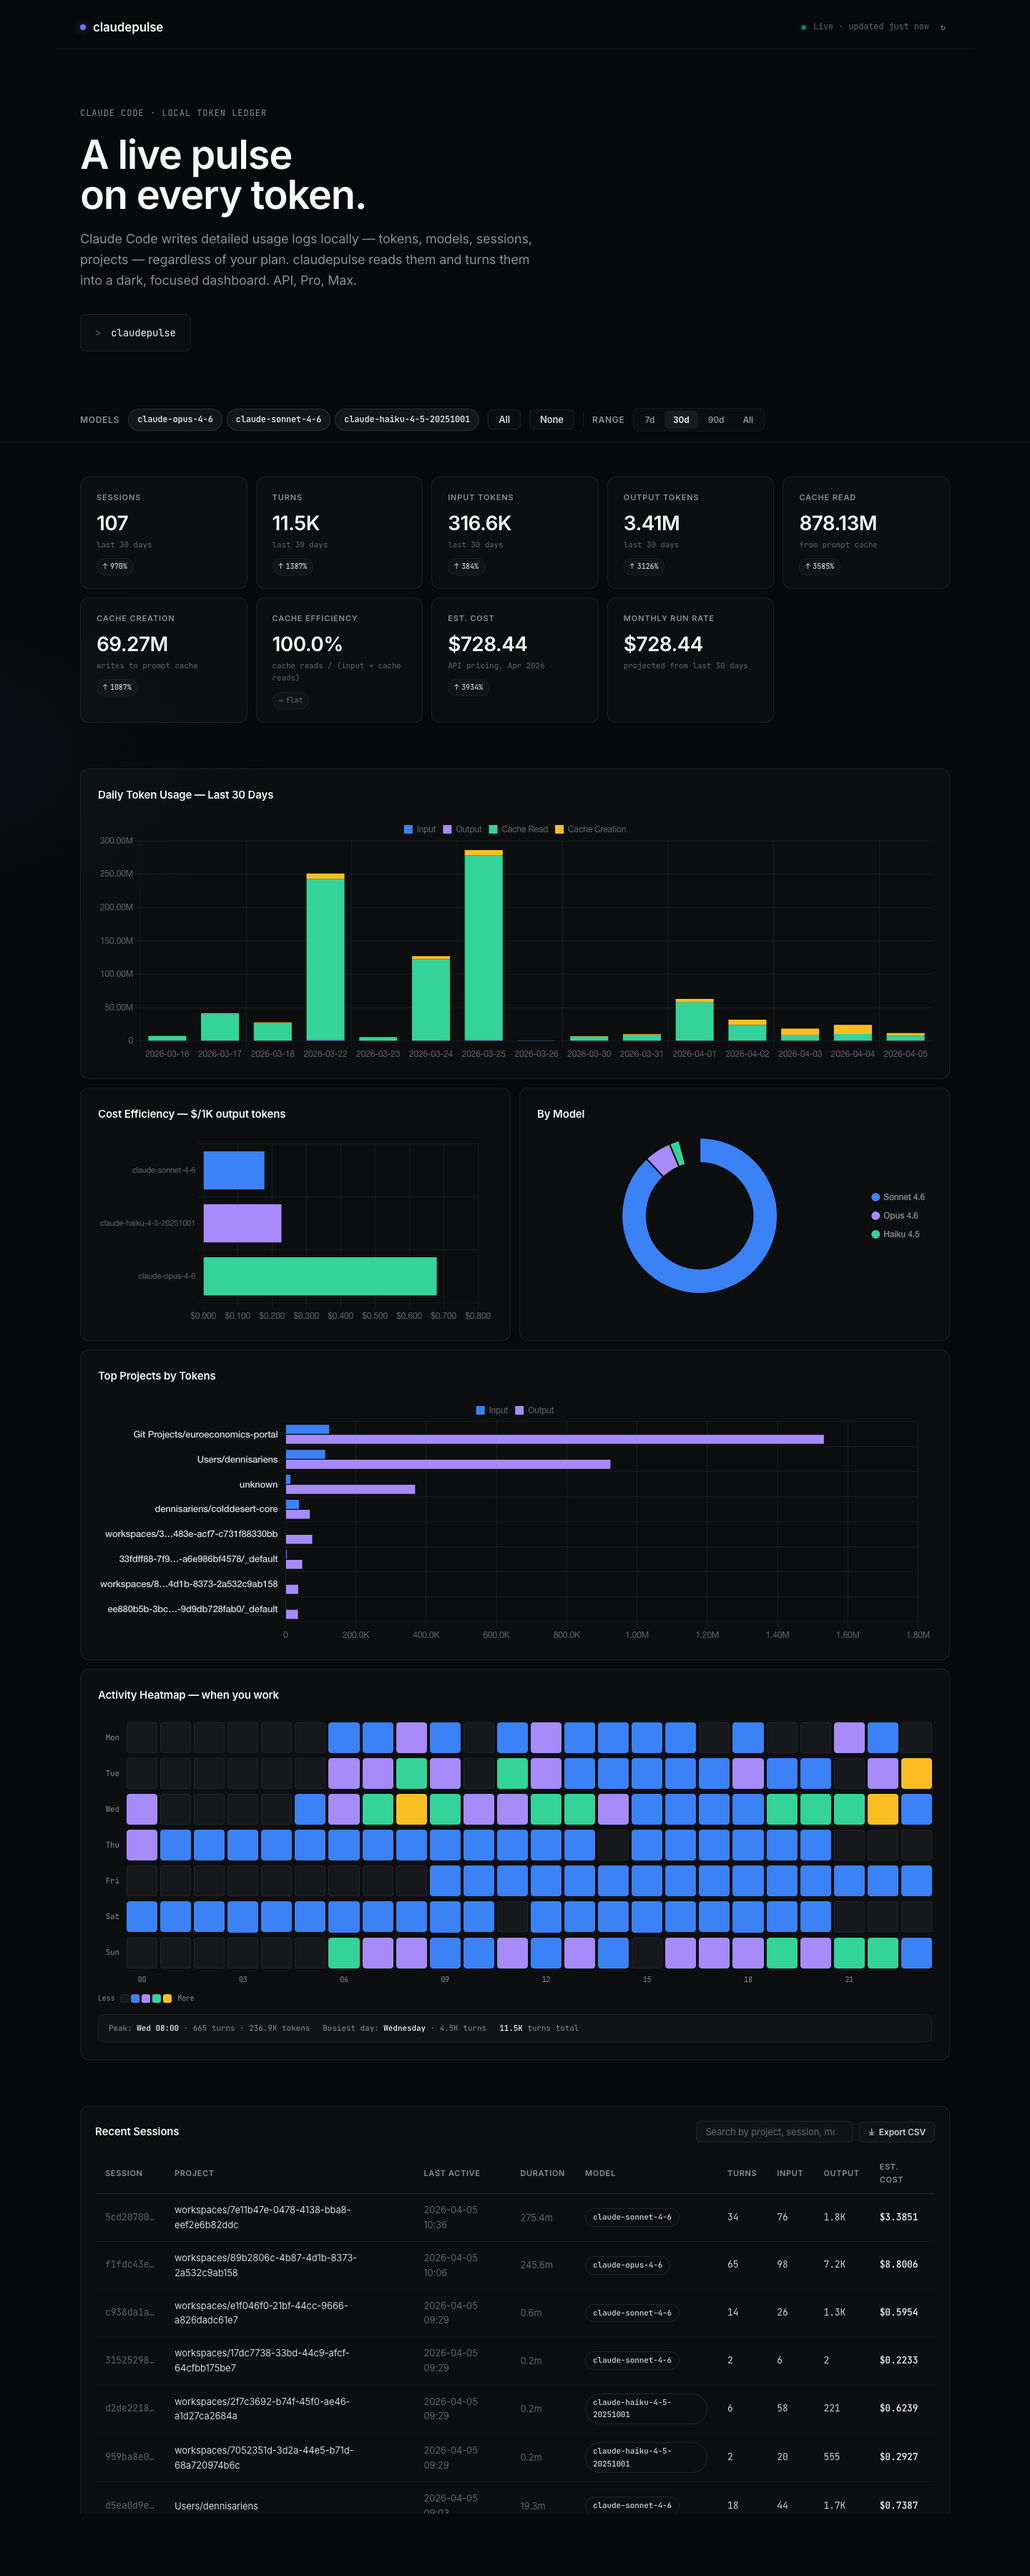
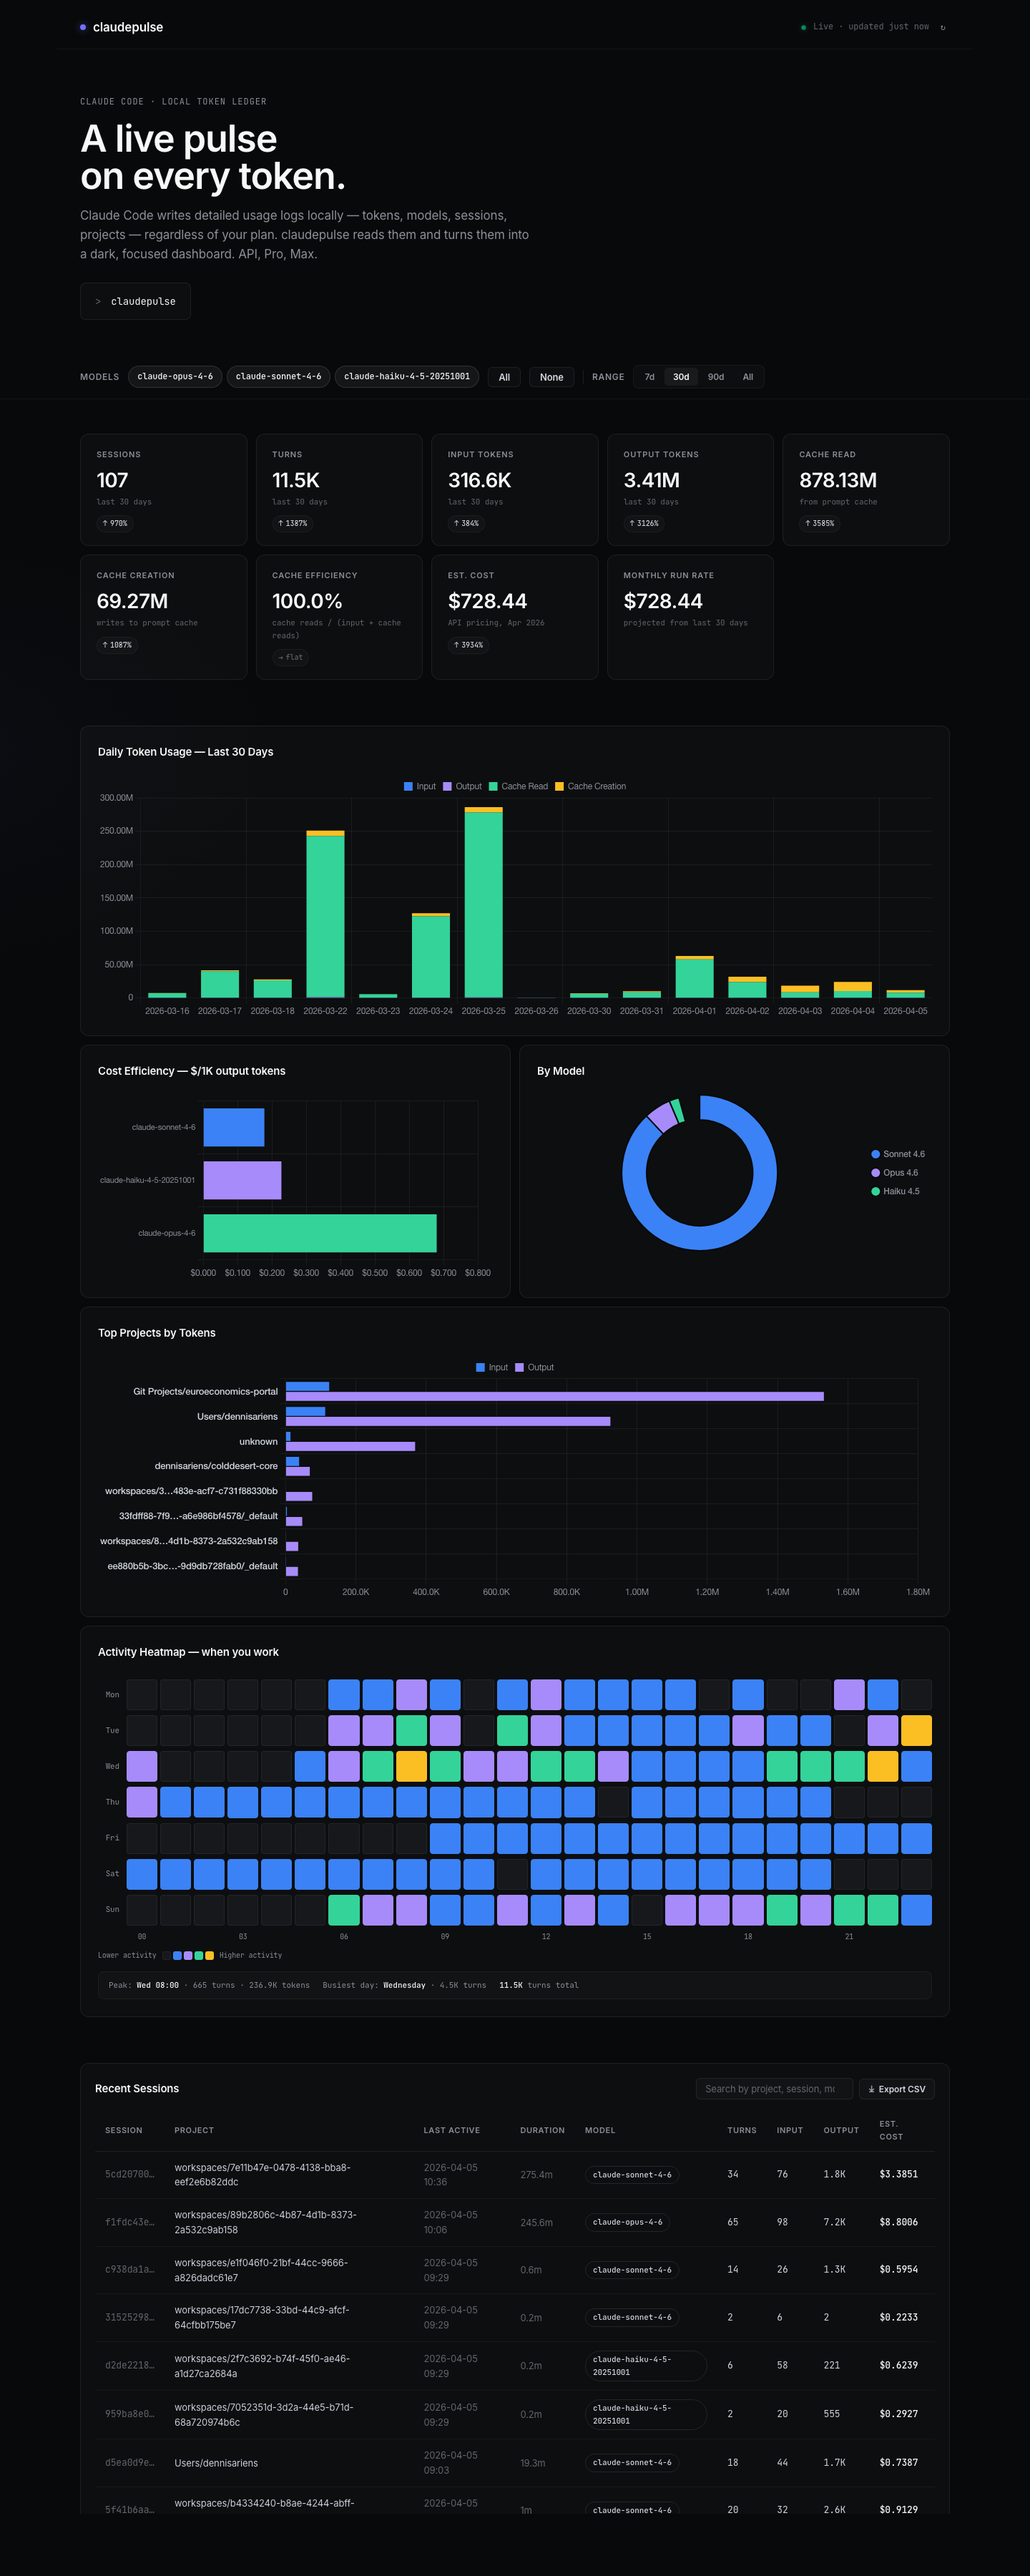
v1.1.5: final dashboard polish

diff --git a/dashboard.py b/dashboard.py
@@ -187,10 +187,10 @@ HTML_TEMPLATE = r"""<!DOCTYPE html>
   header .meta .refresh-btn:hover { color: var(--text-primary); background: var(--surface-subtle); }
   @keyframes pulse-fresh { 0%, 100% { opacity: 1; transform: scale(1); } 50% { opacity: 0.55; transform: scale(0.88); } }
 
-  .hero { max-width: 1280px; margin: 0 auto; padding: 80px 32px 64px; }
-  .hero-eyebrow { font-family: var(--font-mono); font-size: 12px; color: var(--text-tertiary); margin-bottom: 20px; text-transform: uppercase; letter-spacing: 0.08em; }
-  .hero-title { font-family: var(--font-sans); font-size: 56px; font-weight: 510; line-height: 1.0; letter-spacing: -1.232px; color: var(--text-primary); margin-bottom: 20px; font-feature-settings: "cv01", "ss03"; }
-  .hero-sub { font-size: 18px; line-height: 1.60; color: var(--text-tertiary); max-width: 640px; margin-bottom: 32px; letter-spacing: -0.165px; }
+  .hero { max-width: 1280px; margin: 0 auto; padding: 64px 32px 48px; }
+  .hero-eyebrow { font-family: var(--font-mono); font-size: 12px; color: var(--text-tertiary); margin-bottom: 16px; text-transform: uppercase; letter-spacing: 0.08em; }
+  .hero-title { font-family: var(--font-sans); font-size: 52px; font-weight: 510; line-height: 1.0; letter-spacing: -1.12px; color: var(--text-primary); margin-bottom: 16px; font-feature-settings: "cv01", "ss03"; }
+  .hero-sub { font-size: 17px; line-height: 1.58; color: var(--text-tertiary); max-width: 640px; margin-bottom: 26px; letter-spacing: -0.15px; }
   .command-block { display: inline-flex; align-items: center; gap: 14px; padding: 14px 20px; border: 1px solid var(--border-standard); border-radius: 8px; background: var(--surface-ghost); font-family: var(--font-mono); font-size: 14px; color: var(--text-primary); }
   .command-block .prompt { color: var(--text-quaternary); user-select: none; }
 
@@ -236,6 +236,7 @@ HTML_TEMPLATE = r"""<!DOCTYPE html>
   table { width: 100%; border-collapse: collapse; }
   th { text-align: left; padding: 10px 14px; font-size: 11px; font-weight: 510; color: var(--text-tertiary); border-bottom: 1px solid var(--border-standard); text-transform: uppercase; letter-spacing: 0.06em; font-family: var(--font-sans); }
   td { padding: 12px 14px; border-bottom: 1px solid var(--border-subtle); font-size: 13px; color: var(--text-secondary); letter-spacing: -0.13px; }
+  tbody td { color: #c7ced9; }
   tr:last-child td { border-bottom: none; }
   tr:hover td { background: var(--surface-ghost); }
   .model-tag { display: inline-block; padding: 3px 10px; border-radius: 9999px; font-size: 11px; font-family: var(--font-mono); font-weight: 510; background: transparent; border: 1px solid var(--border-solid); color: var(--text-secondary); }
@@ -453,7 +454,7 @@ HTML_TEMPLATE = r"""<!DOCTYPE html>
       <div id="heatmap" class="heatmap-wrap"></div>
       <div class="heatmap-axis" id="heatmap-axis"></div>
       <div class="heatmap-legend">
-        <span>Less</span>
+        <span>Lower activity</span>
         <div class="swatches">
           <div class="sw" data-level="0" style="background: #17181b;"></div>
           <div class="sw" style="background: #3b82f6;"></div>
@@ -461,7 +462,7 @@ HTML_TEMPLATE = r"""<!DOCTYPE html>
           <div class="sw" style="background: #34d399;"></div>
           <div class="sw" style="background: #fbbf24;"></div>
         </div>
-        <span>More</span>
+        <span>Higher activity</span>
       </div>
       <div id="heatmap-summary" class="heatmap-summary"></div>
     </div>
@@ -619,8 +620,8 @@ const TOKEN_COLORS = {
 };
 // Four brand colors only. If there are more than 4 models, the palette cycles.
 const MODEL_COLORS = ['#3b82f6', '#a78bfa', '#34d399', '#fbbf24'];
-const TICK_COLOR = '#62666d';
-const GRID_COLOR = 'rgba(255,255,255,0.05)';
+const TICK_COLOR = '#8a8f98';
+const GRID_COLOR = 'rgba(255,255,255,0.06)';
 
 // ── Time range ─────────────────────────────────────────────────────────────
 const RANGE_LABELS = { '7d': 'Last 7 Days', '30d': 'Last 30 Days', '90d': 'Last 90 Days', 'all': 'All Time' };

diff --git a/cli.py b/cli.py
@@ -280,7 +280,7 @@ Usage:
   claudepulse --version  Show version
 """
 
-__version__ = "1.1.4"
+__version__ = "1.1.5"
 
 COMMANDS = {
     "scan": cmd_scan,

diff --git a/CHANGELOG.md b/CHANGELOG.md
@@ -2,6 +2,13 @@
 
 All notable changes to claudepulse will be documented here.
 
+## [1.1.5] - 2026-04-09
+
+### Changed
+- Final polish pass: chart tick contrast lifted, grid lines nudged clearer, table body text brightened slightly, and the hero tightened so the dashboard gets to the point faster.
+- Heatmap legend wording clarified from a vague Less/More scale to Lower activity / Higher activity.
+- Screenshot refreshed to reflect the polished layout.
+
 ## [1.1.4] - 2026-04-09
 
 ### Changed
